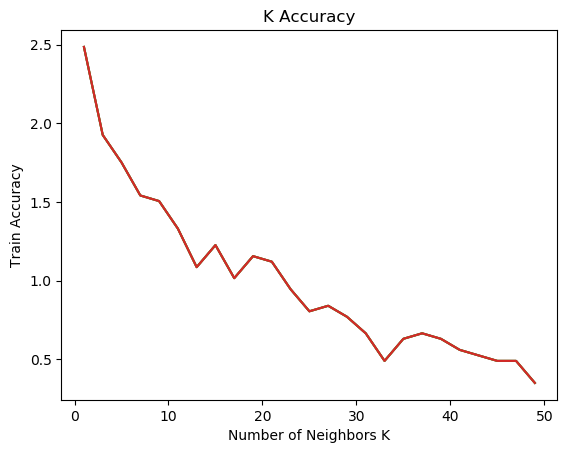
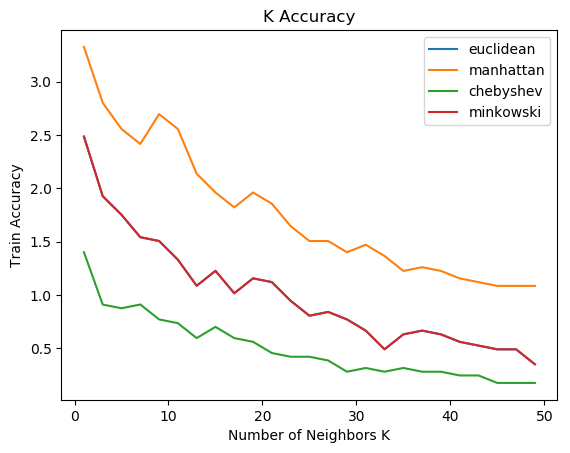
Review, minor changes

diff --git a/k_selection.py b/k_selection.py
@@ -37,7 +37,7 @@ def select_k(data, ids, debug, run=0, show=True):
 			kfold = model_selection.KFold(n_splits=10)
 
 			# Acquire scores
-			scores = model_selection.cross_val_score(estimator=knn, x=data, y=ids, cv=kfold, scoring='accuracy', error_score='raise')
+			scores = model_selection.cross_val_score(estimator=knn, X=data, y=ids, cv=kfold, scoring='accuracy', error_score='raise')
 			k_scores.append(scores.mean()*100)
 
 		# Save the metric scores
@@ -58,7 +58,10 @@ def select_k(data, ids, debug, run=0, show=True):
 	plt.title("K Accuracy")
 	index = 0
 	for m in metrics:
+		print("Plotting: ", m, " with ", cv_scores[index])
 		plt.plot(neighbors, cv_scores[index], label=m)
+		index += 1
+	plt.legend()
 
 	# save image
 	plt.savefig(IMAGE_OUTPUT + 'k_accuracy_' + str(run) + '.png', bbox_inches='tight')

diff --git a/main.py b/main.py
@@ -85,6 +85,7 @@ debug += "Total number of users: " + str(len(files)) + "\n"
 for i in range(_number_of_runs):
     debug += "-" * 25 + "\n"
     debug += "Beginning Run: " + str(i) + "\n"
+    print("Run: ", i, " of ", _number_of_runs)
 
     ## Perform feature selection
     selected_features = []
@@ -130,8 +131,12 @@ for i in range(_number_of_runs):
     genuine_scores = []
     impostor_scores = []
     total_accuracy = 0.
+    counter = 0
 
     for train, test in kf.split(raw_data, raw_data_ids):
+        # debug info
+        print("Fold: ", counter, " Of: ", k_folds)
+
         # Get current folds data
         accuracy = 0.
         template = raw_data.values[train, :]

diff --git a/README.md b/README.md
@@ -1,5 +1,5 @@
-Initial Project Collaborators - Subhrajyoti Pradhan, Carlos Leon, Ryan Arjun
-Further Research Collaborators - Subhrajyoti Pradhan, Carlos Leon
+# Initial Project Collaborators - Subhrajyoti Pradhan, Carlos Leon, Ryan Arjun
+# Further Research Collaborators - Subhrajyoti Pradhan, Carlos Leon
 
 Further Advancements:
 
